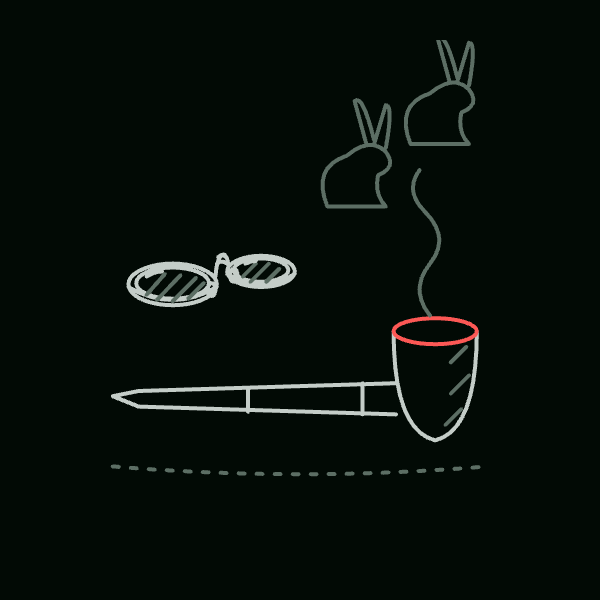
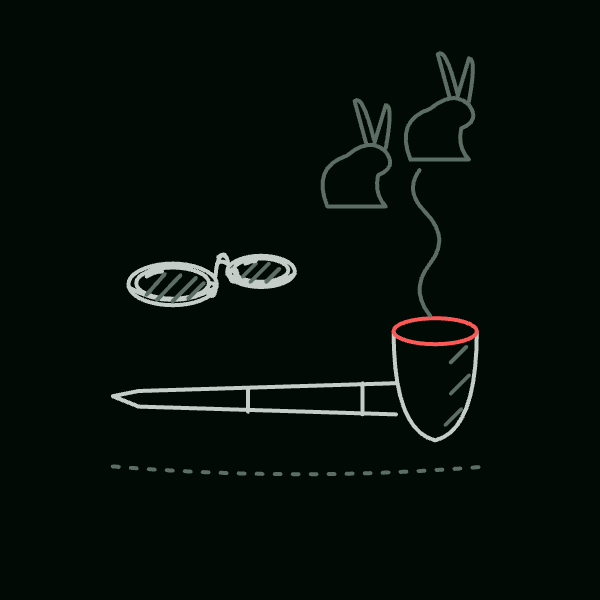
fix(art): close the round 2 notes on the first Chimera Ant redraw
Claude-Session: https://claude.ai/code/session_018XDoqAeUxemrxHG8vErWvW

Changed region(s): [[0.66, 0.06, 0.81, 0.27]]

diff --git a/src/server/archive/chimeraAnt.test.ts b/src/server/archive/chimeraAnt.test.ts
@@ -721,6 +721,34 @@ const PHASE_TWO_STEPS: Step[] = [
     value: 'deceased',
   },
   {
+    id: 'kurt',
+    field: 'role',
+    episode: 77,
+    chapter: 187,
+    only: 'episode',
+    value: { it: 'Fratello maggiore', en: 'Older brother' },
+  },
+  // Back as Colt, in the anime alone (#1326).
+  {
+    id: 'kurt',
+    field: 'role',
+    episode: 92,
+    chapter: 215,
+    only: 'episode',
+    value: {
+      it: 'Rinato come formichimera, chiamato Coluto',
+      en: 'Reborn as a Chimera Ant called Colt',
+    },
+  },
+  {
+    id: 'kurt',
+    field: 'status',
+    episode: 92,
+    chapter: 215,
+    only: 'episode',
+    value: 'alive',
+  },
+  {
     id: 'reina',
     field: 'affiliation',
     episode: 80,
@@ -1553,13 +1581,15 @@ describe('the first Chimera Ant redraw stages (#1326)', () => {
     expect(drawnAt('palm-siberia', at('chapter', 293), locale)).toStrictEqual(
       drawnAt('palm-siberia', at('episode', 124), locale),
     )
-    // Gyro's coat is the manga's alone; Kurt's return is the anime's alone.
+    // Gyro's coat is the manga's alone.
     expect(drawnAt('gyro', at('episode', 148), locale)).toStrictEqual(
       drawnAt('gyro', at('episode', 78), locale),
     )
-    expect(drawnAt('kurt', at('chapter', 215), locale)).toStrictEqual(
-      drawnAt('kurt', at('chapter', 214), locale),
-    )
+
+    // Kurt's record is the anime's alone: no manga reader opens it.
+    const mangaReader = readerFor(archive, at('chapter', 340), locale)
+
+    expect(opened('kurt', mangaReader)).toBe(false)
   })
 })
 

diff --git a/src/data/series/hunter-x-hunter/art/chimera-ant-ngl.ts b/src/data/series/hunter-x-hunter/art/chimera-ant-ngl.ts
@@ -215,8 +215,8 @@ export const chimeraAntNglRedrawn: Redrawings = {
       chapter: 215,
       source: 'episode',
       value: [
-        ...moved(KURT_VEST, 'translate(-12 18) scale(0.82)'),
-        ...moved(softened(COLT_FLAG), 'translate(52 36) scale(0.72)'),
+        ...moved(KURT_VEST, 'translate(-12 31.5) scale(0.82)'),
+        ...moved(softened(COLT_FLAG), 'translate(52 56.6) scale(0.72)'),
         { d: 'M4 166 H156', role: 'ambient' },
         shadow(84, 172, 54),
       ],

diff --git a/src/data/series/hunter-x-hunter/art/chimera-ant-hunters.ts b/src/data/series/hunter-x-hunter/art/chimera-ant-hunters.ts
@@ -286,7 +286,7 @@ export const CHIMERA_ANT_HUNTERS_DRAWINGS = {
     {
       d: SMOKE_RABBIT,
       role: 'ambient',
-      transform: 'translate(136 40) scale(1.5)',
+      transform: 'translate(136 46) scale(1.5)',
     },
   ],
   // Knuckle's white overcoat standing as if worn, the golden rings on it in
